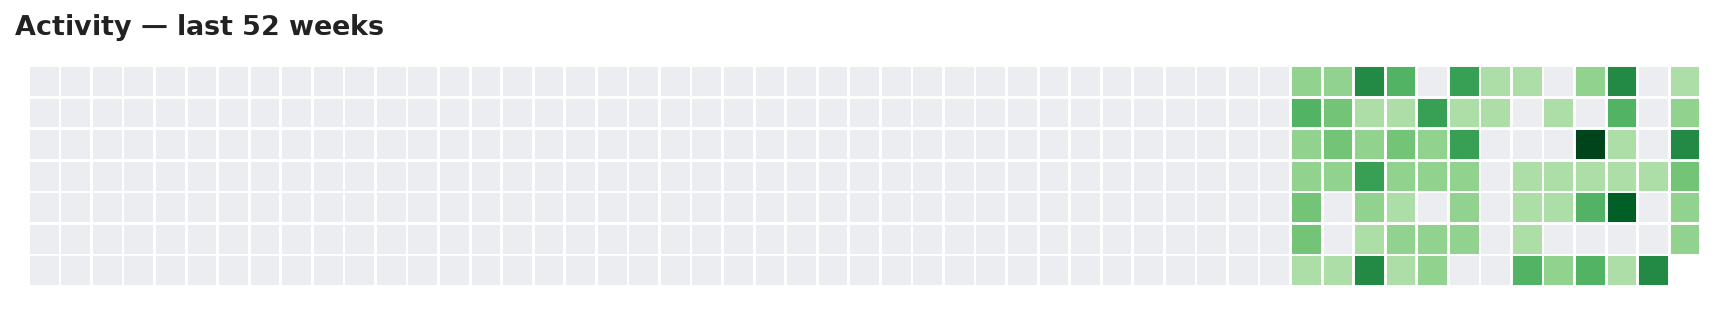
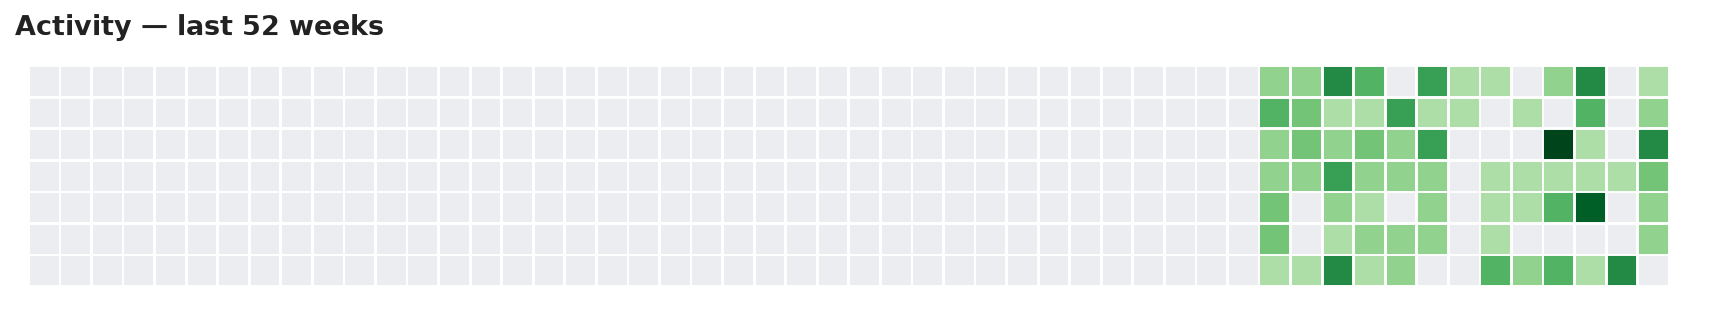
Sync: refresh analytics (rating/streak update, no new problems)

Changed region(s): [[0.7163, 0.2, 0.9965, 0.9143]]

diff --git a/README.md b/README.md
@@ -4,7 +4,7 @@ Auto-generated archive of accepted Codeforces submissions for **[om_sharma_](htt
 
 - **Total solved:** 171
 - **With source attached:** 0 / 171
-- **Longest streak:** 15 days  |  **Current streak:** 7 days
+- **Longest streak:** 15 days  |  **Current streak:** 0 days
 - **Contest rating:** 1010 (max 1299)
 
 ## 📊 Analytics
